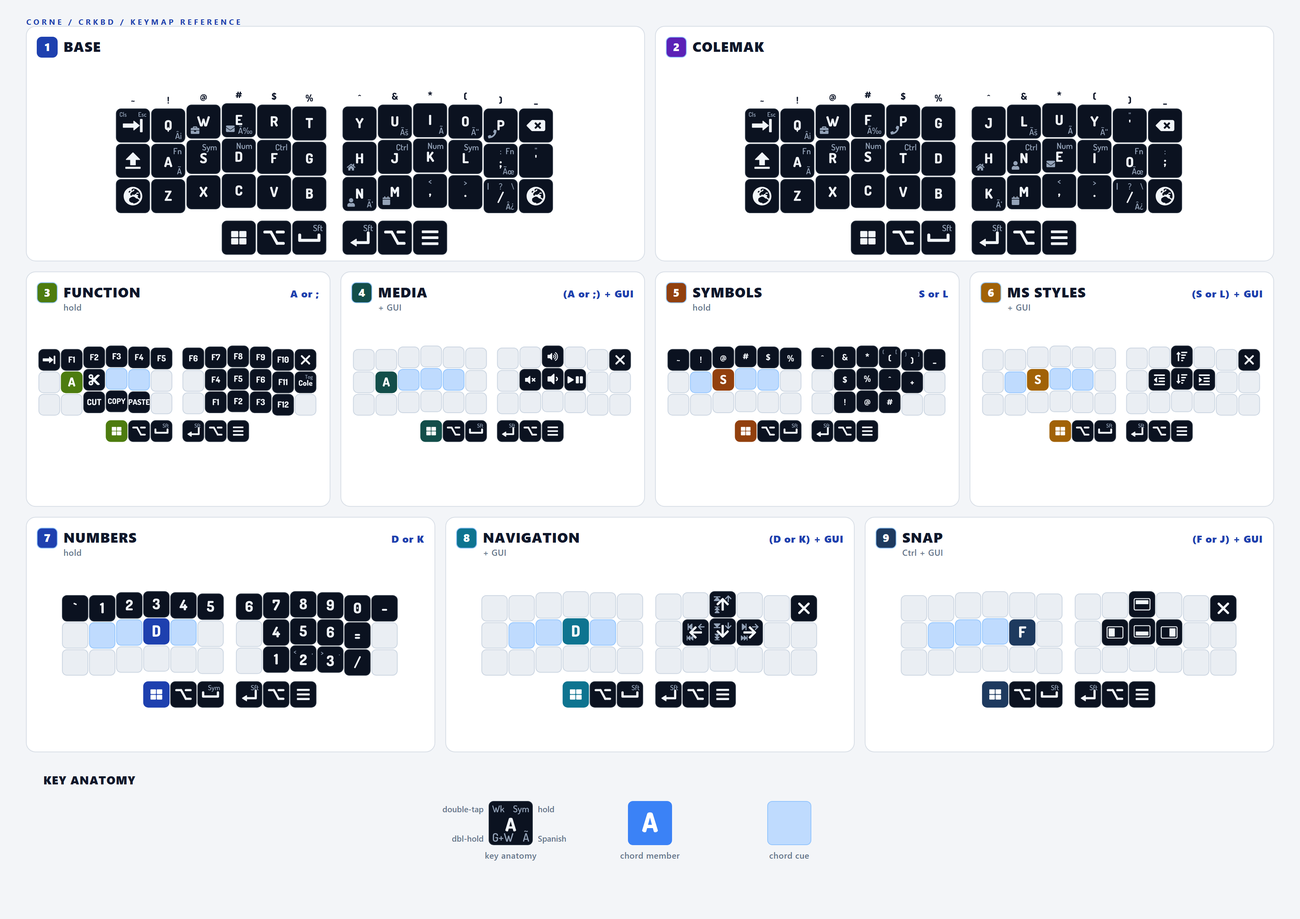
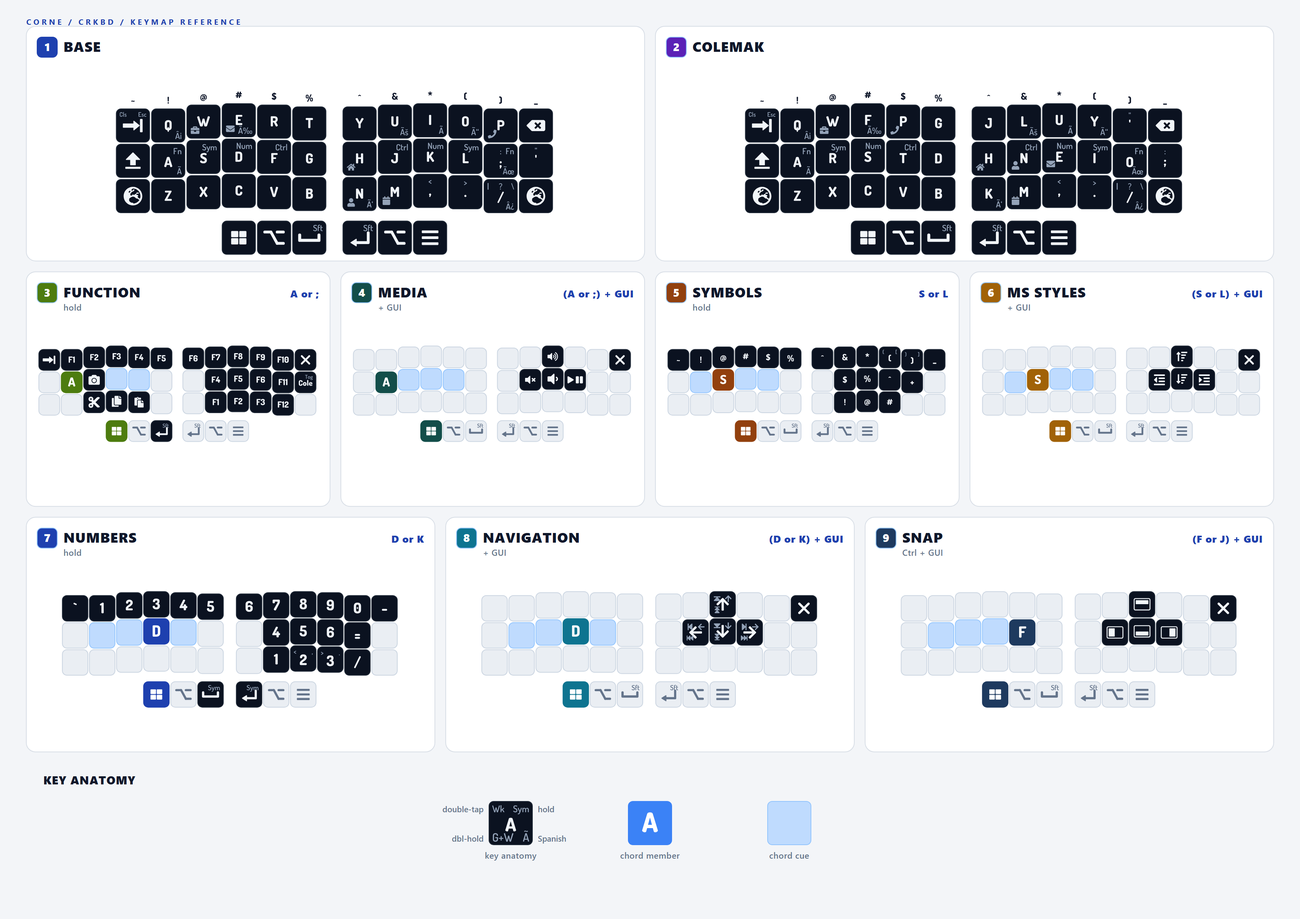
Add left-hand Function Enter and guide updates

diff --git a/tools/printable-guide/render_corne_guide.py b/tools/printable-guide/render_corne_guide.py
@@ -96,7 +96,7 @@ NUMBERS = [
     [K(""), K(""), K(""), K(""), K(""), K(""),
      K(""), K("1"), K("2", ",", "<"), K("3", ".", ">"), K("/"), K("")],
     [K(""), K("_KEY_ALT"), K("_KEY_SPACE","Sym"),
-     K("_KEY_ENTER","Sft"), K("_KEY_ALT"), K("_KEY_MENU")],
+     K("_KEY_ENTER","Sym"), K("_KEY_ALT"), K("_KEY_MENU")],
 ]
 
 # NAV folds the old Extremes + Snap sub-layers into faint annotations on the
@@ -141,7 +141,7 @@ STYLE_ICONS = {"_OUTDENT", "_INDENT", "_REORDER_UP", "_REORDER_DN"}
 KEY_ICONS = {"_KEY_TAB", "_KEY_MEDIA", "_KEY_CALC", "_KEY_GUI",
              "_KEY_SPACE", "_KEY_MENU", "_KEY_BSP", "_KEY_DEL",
              "_KEY_ENTER", "_KEY_ALT", "_KEY_SYM", "_KEY_GLOBE",
-             "_KEY_SNIP"}
+             "_KEY_SNIP", "_KEY_CUT", "_KEY_COPY", "_KEY_PASTE"}
 # Nav 4-tier: word-jump (fast-forward rotated) + extremes (step-forward rotated)
 WORD_ICONS    = {"_WORD_LEFT", "_WORD_RIGHT", "_WORD_UP", "_WORD_DOWN"}
 EXTREME_ICONS = {"_EXTREME_LEFT", "_EXTREME_RIGHT", "_EXTREME_UP", "_EXTREME_DOWN"}
@@ -212,7 +212,10 @@ ICON_TUNING = {
     "_KEY_ALT":     (0.52, 0.36),   # option/alt escalator
     "_KEY_SYM":     (0.56, 0.36),   # </> â€” wide-ish, give it room
     "_KEY_GLOBE":   (0.56, 0.36),   # globe â€” Spanish-compose anchor
-    "_KEY_SNIP":    (0.54, 0.36),   # scissors â€” Windows screen snip
+    "_KEY_SNIP":    (0.54, 0.36),   # camera â€” Windows screen snip
+    "_KEY_CUT":     (0.54, 0.36),   # scissors
+    "_KEY_COPY":    (0.52, 0.36),   # overlapping pages
+    "_KEY_PASTE":   (0.50, 0.36),   # clipboard
 }
 
 # MEDIA â€” guide-aligned 4-key cluster: VOL+ above the home row, with
@@ -241,9 +244,9 @@ FUNCTION = [
      K("F6"), K("F7"), K("F8"), K("F9"), K("F10"), K("_KEY_DEL")],
     [K(""), K(""), K("_KEY_SNIP"), K(""), K(""), K(""),
      K(""), K("F4"), K("F5"), K("F6"), K("F11"), K("Cole","Tog")],
-    [K(""), K(""), K("CUT"), K("COPY"), K("PASTE"), K(""),
+    [K(""), K(""), K("_KEY_CUT"), K("_KEY_COPY"), K("_KEY_PASTE"), K(""),
      K(""), K("F1"), K("F2"), K("F3"), K("F12"), K("")],
-    [K(""), K("_KEY_ALT"), K("_KEY_SPACE","Sft"), K("_KEY_ENTER","Sft"), K("_KEY_ALT"), K("_KEY_MENU")],
+    [K(""), K("_KEY_ALT"), K("_KEY_ENTER","Sft"), K("_KEY_ENTER","Sft"), K("_KEY_ALT"), K("_KEY_MENU")],
 ]
 
 CTRL = [
@@ -623,7 +626,10 @@ def _load_fa_glyphs():
         "_KEY_DEL":     0xf00d,  # times (Ã—) â€” plain dark Del key
         "_KEY_SYM":     0xf121,  # code </>
         "_KEY_GLOBE":   0xf7a2,  # globe-europe â€” Spanish-compose anchor
-        "_KEY_SNIP":    0xf0c4,  # cut / scissors â€” Windows screen snip
+        "_KEY_SNIP":    0xf030,  # camera â€” Windows screen snip
+        "_KEY_CUT":     0xf0c4,  # cut / scissors
+        "_KEY_COPY":    0xf0c5,  # copy
+        "_KEY_PASTE":   0xf0ea,  # paste / clipboard
         "_OUTDENT":     0xf03b,  # outdent â€” promote paragraph (Alt+Shift+Left)
         "_INDENT":      0xf03c,  # indent â€” demote paragraph (Alt+Shift+Right)
         "_REORDER_UP":  0xf161,  # sort-amount-up â€” move paragraph up (Alt+Shift+Up)
@@ -962,7 +968,7 @@ def draw_key(x, y, w, h, tap, hold, double, dark, highlight, anchor_label,
              font_main, font_hold, secondary=False, secondary_label=None,
              embed=False, font_boost=1.0, palette=None,
              embed_palette=None, payload=False, payload_palette=None,
-             spanish="", double_hold="", shift=""):
+             spanish="", double_hold="", shift="", muted=False):
     blank = (tap == "" and not highlight and not secondary and not embed)
     trans = (tap == "â–½")
 
@@ -990,6 +996,11 @@ def draw_key(x, y, w, h, tap, hold, double, dark, highlight, anchor_label,
         stroke = pal["cue_stroke"]
         text = pal["cue_text"]
         hold_color = pal["cue_text"]
+    elif muted:
+        fill = "#eaeef3"
+        stroke = "#cbd5e1"
+        text = MUTED
+        hold_color = MUTED
     elif dark:
         if blank or trans:
             fill = "#eaeef3"
@@ -1178,10 +1189,26 @@ def draw_keyboard(ox, oy, unit, data, dark, access_set,
     font_hold = max(7, int(round(unit * 0.26)))
     parts = []
 
+    def is_repeated_thumb(r, c, tap, hold, double, spanish, double_hold):
+        if layer_name in ("BASE", "COLEMAK") or r != 3:
+            return False
+        if double or spanish or double_hold:
+            return False
+        repeated = {
+            (3, 1): ("_KEY_ALT", ""),
+            (3, 2): ("_KEY_SPACE", "Sft"),
+            (3, 3): ("_KEY_ENTER", "Sft"),
+            (3, 4): ("_KEY_ALT", ""),
+            (3, 5): ("_KEY_MENU", ""),
+        }
+        return repeated.get((r, c)) == (tap, hold)
+
     def render(r, c, x, y, tap, hold, double, spanish="", double_hold=""):
         hl = (r, c) in access_set
         sec = (r, c) in secondary_set and not hl and tap != "_KEY_SNIP"
         emb = (r, c) in embed_set and not hl and not sec
+        muted = (not hl and not sec and not emb and
+                 is_repeated_thumb(r, c, tap, hold, double, spanish, double_hold))
 
         if hl:
             # Highlighted anchor / GUI thumb: paint in the BOARD's own hue with
@@ -1210,6 +1237,7 @@ def draw_keyboard(ox, oy, unit, data, dark, access_set,
                         secondary=sec, embed=emb, font_boost=font_boost,
                         palette=key_pal, embed_palette=emb_pal,
                         spanish=spanish, double_hold=double_hold,
+                        muted=muted,
                         shift=SHIFT_MAP.get(tap, "") if layer_name in ("BASE", "COLEMAK") else "")
 
     def _unpack(cell):

diff --git a/layout.h b/layout.h
@@ -27,6 +27,7 @@
 // special cases for inherited thumb keys.
 #define THUMB_SPACE_SHIFT LSFT_T(KC_SPC)
 #define THUMB_ENTER_SHIFT RSFT_T(KC_ENT)
+#define FUNC_ENTER_SHIFT LSFT_T(KC_ENT)
 #define NUM_SPACE_SYMBOLS LT(SYM, KC_SPC)
 #define SCREEN_SNIP LSG(KC_S)
 #define CLIP_CUT C(KC_X)
@@ -118,8 +119,8 @@
 	XXXXXXX, XXXXXXX, SCREEN_SNIP, XXXXXXX, XXXXXXX, XXXXXXX, XXXXXXX, KC_F4,   KC_F5,   KC_F6,   KC_F11,  TG(CMK), \
 /* Bottom: ---    ---    CUT    COPY   PASTE  ---      ---    F1     F2     F3     F12    --- */\
 	XXXXXXX, XXXXXXX, CLIP_CUT, CLIP_COPY, CLIP_PASTE, XXXXXXX, XXXXXXX, KC_F1,   KC_F2,   KC_F3,   KC_F12,  XXXXXXX, \
-/* Thumbs:                         MED    ALT    SHIFT    ENTER  RALT   MENU */\
-	                            SYS_GUI_MED_SNAP, DELAYED_LALT, THUMB_SPACE_SHIFT, RIGHT_THUMBS
+/* Thumbs:                         MED    ALT    ENT/SFT  ENTER  RALT   MENU */\
+	                            SYS_GUI_MED_SNAP, DELAYED_LALT, FUNC_ENTER_SHIFT, RIGHT_THUMBS
 
 // Function/System + left GUI thumb Media: plain keys only while RAM is tight.
 #define _MEDI \

diff --git a/docs/chieftainDots-roadmap.md b/docs/chieftainDots-roadmap.md
@@ -58,61 +58,46 @@ Start here if this project has been idle for a while. This short table is the
 authoritative resume point; the longer table below is parked detail and history
 from earlier discussions.
 
-Current compiled Snap trial: `28424/28672` bytes, `248` bytes free, OLED on,
-console off. Staged baseline before Snap: `28200/28672` bytes, `472` bytes
-free. Staged changes since the OLED-safe baseline: Navigation is
-movement-only, Styles is tap-only `Alt+Shift+Arrow`, Media is tap-only
-Teams-focused, and OLED labels cover `nav`, `style`, `media`, and `snap`.
-Current working-tree Snap held-entry refinement keeps only the intended
-physical window-placement gesture: Ctrl+GUI hold enters Snap mode, then
-`I/J/K/L` send exact one-shot `Win+Arrow` shortcuts while the Snap layer is
-active. GUI double-tap-hold desktop/workspace mode was removed because those
-shortcuts already have a parked requirement and can later live inside a
-tap/hold/double-tap hierarchy on the Ctrl+GUI chord if needed. Two entry tests failed physically:
-checking whether Ctrl was already registered as a host modifier, and tracking a
-Ctrl-source keycode intent flag in `process_record_user()`. Current hypothesis:
-the GUI tap-dance resolves before the home-row Ctrl mod-tap has become a host
-modifier or a reliable keycode intent signal, so the next narrow trial checks
-the physical Ctrl-source matrix positions directly. Keep this separate from the
-staged baseline until physically tested. Previous held-entry compile succeeded
-at `28350/28672`, leaving `322` bytes free; the Ctrl-intent version compiled at
-`28422/28672`, leaving `250` bytes free; the physical-matrix version compiled
-at `28364/28672`, leaving `308` bytes free. QMK Toolbox then proved Snap entry
-worked because arrows emitted GUI, but Windows did not move the active window
-because the physically held Ctrl contaminated the shortcut as `Ctrl+Win+Arrow`.
-Current compile masks Ctrl only around each one-shot window Snap arrow tap, then
-restores the previous modifier state; it compiled at `28408/28672`, leaving
-`264` bytes free. Physical use is acceptable for now: Snap works well enough to
-keep the current firmware as the working source of truth, but it can still feel
-unpredictable sometimes. Treat future Snap work as a parked refinement, not as a
-blocker for publishing the accepted userspace commits.
+Current accepted baseline: the three-anchor Corne layout is working physically
+and should be treated as the userspace source of truth. The latest documented
+successful compile is `28280/28672`, leaving `392` bytes free. Both halves have
+been flashed with the current layout.
 
-Current Function shortcut slice adds Windows screen snip on `Function + S` with
-native `LSG(KC_S)`. Compile succeeded at `28280/28672`, leaving `392` bytes
-free; QMK reported `28280` bytes both before and after the keymap replacement,
-so the shortcut added no measured firmware bytes. Right-half flash and physical
-Windows snipping-overlay confirmation are the next acceptance checks.
+Kept Function shortcuts: `Function + S` sends Windows screen snip with native
+`LSG(KC_S)`, and QMK reported `28280` bytes both before and after that keymap
+replacement. `Function + X`, `Function + C`, and `Function + V` send
+`Ctrl+X`, `Ctrl+C`, and `Ctrl+V`; physical testing confirmed cut/copy/paste
+work. The short-lived Base/Colemak naked-letter clipboard idea was removed
+before commit because Trello uses plain `c` to archive hovered cards.
 
-Current clipboard shortcut slice adds Function-layer `X`, `C`, and `V` as
-explicit cut/copy/paste shortcuts. `Function + X` sends `Ctrl+X`,
-`Function + C` sends `Ctrl+C`, and `Function + V` sends `Ctrl+V`.
-The short-lived Base/Colemak `V` double-tap-hold paste idea was
-removed before commit because Trello uses plain `c` to archive hovered cards,
-which makes naked-letter clipboard gestures too easy to confuse with host app
-shortcuts. Compile succeeded at `28280/28672`, leaving `392` bytes free.
-Physical testing confirmed the Function-layer clipboard shortcuts work.
+Snap stays in the layout, with caveats. The kept path is the deliberate
+Ctrl+GUI held entry into a Snap surface where `I/J/K/L` send one-shot
+`Win+Arrow` shortcuts. Physical use is acceptable for now, but Snap can still
+feel unpredictable sometimes; treat future Snap work as a parked refinement,
+not a blocker for publishing or using the current layout.
+
+Tiny autocorrect is dismissed for now. A two-entry trial for `comming -> coming`
+and `i -> I` produced only a 27-byte dictionary table, but the full inherited
+autocorrect runtime compiled at `28960/28672`, `288` bytes over. Revisit only
+after byte recovery creates enough room or if autocorrect becomes valuable
+enough to trade against another visible feature.
+
+M22 byte recovery is a future discussion, not pre-approved implementation. Any
+candidate must be negotiated before code changes: decide which areas are in or
+out, try one reversible slice at a time, compile before/after, and preserve the
+current physical behavior unless a separate feature decision says otherwise.
 
 | Focus | Status | Topic | Resume Notes |
 | --- | --- | --- | --- |
 | R0 | Top Priority | Design OLED/screen feedback for feature discovery. | The current OLED feature-discovery build compiles at `28040/28672`, leaving `632` bytes free after repurposing unused modifier font slots for the home-row icons, replacing the slow scaled-label direction with the small text-slot direction, centering `nav` as ` nav ` in the five-cell text slot, and removing the full-screen Bongocat-overwrite label renderer. Put the status/discovery screen on the left OLED because the anchors and chords happen on the left; move Bongocat to the right OLED. Keep the current status screen structure and prioritize three signals: the small `corne` label becomes the active chord name, the RGB arrow shape lights on chord layers, and the middle layer/state tile stays in place while changing image for resting, anchor-held, and chord-active states. Reinterpret the bottom 2x2 modifier stack as home-row status using `Fn`, `@`, `#`, and reused `ctrl`. Current naming direction: `base_layer`, `anchor_layer`, and `chord_layer`. Current OLED requirement: all active chorded layers need the same small logo-text-slot treatment. Required chord labels are `nav`, `style` for Office, `snap`, and `media`; plain anchors do not rename the slot yet. Preserve the generated HTML/SVG asset preview and screen brief as the collaboration surface before changing more firmware OLED code. |
-| R1 | Compiled | Flash and physically test the current three-anchor trial. | Current compiled firmware is `22210/28672` bytes, leaving `6462` bytes free, with console off, OLED off, Auto Caps disabled, and Media removed as a reversible trial. It includes the three-anchor layer model, Navigation hierarchy, Ctrl+GUI Snap window placement, Spanish angle quotes, personal-email mnemonic, Spanish-key double-tap language toggle, delayed/blocking left Alt, the Navigation Ctrl correction, Long Caps, MS Styles tap-hold arrows, the byte-audit removal of the unreachable dedicated Text layer, the Auto Caps byte-audit removal, and the Media removal experiment. Physical feedback so far before Media removal: Space/Enter Shift works well, the three anchors work, Navigation works well, Spanish compose and language shifting work well, English quotes work well, Symbols work, Snap works, delayed Alt works, mnemonics work, Media worked after the layer-order fix, and Long Caps works well. Needs physical check that losing Media is acceptable. Spanish RGB is intentionally off because Spanish compose is output-confirming rather than a command mode. MS Styles still needs more PowerPoint testing before this final combined slice is marked Kept. |
-| R1a | Compiled | Remove Media tap-dance behavior as a RAM experiment. | Requirement: keep the Media layer available but remove its tap/hold/double-tap behaviors so it costs less SRAM while preserving the useful daily actions. Current Media is plain `I = Volume Up`, `J = Teams mic mute (Ctrl+Shift+M)`, `K = Volume Down`, and `L = Play/Pause`; no Media hold or double-tap actions are active. Default OLED-off compile succeeded at `22502/28672`, leaving `6170` bytes free. RAM report shows `tap_dance_actions` at `260` bytes, down from the previous `300` bytes, plus the four Media directional state structs are gone. OLED-on compile with `-e OLED_ENABLE=yes` succeeded at `28070/28672`, leaving `602` bytes free. Its RAM report is led by `oled_buffer = 512`, `tap_dance_actions = 260`, `g_led_config = 210`, and `ws2812_leds = 162`. This is a reversible experiment while OLED/RAM pressure is under investigation; physical flashing is still needed to prove whether the OLED corruption/phantom-key behavior improves. |
-| R1b | Flashed | Revert the newer shared directional tap-dance helper for OLED/RAM diagnosis. | Requirement: test whether the OLED-on phantom modifier behavior came from RAM pressure alone or from the newer stateful directional tap-dance helper introduced during the chord-family cleanup. Diagnostic change restores the older, smaller Navigation `nav_dance_t` helper and MS Styles helper, removes the active Snap directional tap dances, keeps the Snap layer as plain arrows behind the GUI-held entry dance, and keeps Media as plain keys from R1a. OLED remains on in `rules.mk` for this test. Compile succeeded at `28230/28672`, leaving `442` bytes free. RAM report shows `tap_dance_actions = 220`, down from `260` after R1a and down from `300` before Media flattening. Physical result: screens work and QMK key tester no longer shows the phantom Shift/Ctrl/Alt weirdness. Keep this simpler logic as the safer baseline before rebuilding any chord hierarchy. |
-| R2 | Test | Run the remaining physical acceptance checks. | Still needs focused testing: MS Styles in PowerPoint, Function/System layer basics such as F-key shape, Tab behavior, Delete, and Colemak toggle, and a quick tap-hold regression check after removing the clarity-only hold-on-other-key-press callback. Already tested as working: Space/Enter Shift, anchors, Navigation, Spanish compose and language switching, English quotes, Symbols, Snap, delayed Alt, mnemonics, Media after the layer-order fix, and Long Caps. Avoid testing `L` while GUI is intentionally held unless the goal is to lock Windows; `GUI+L` is the host lock-device shortcut. |
+| R1 | Kept | Current three-anchor Corne layout baseline. | Treat the current flashed userspace as accepted: D/K = Numbers, S/L = Symbols, A/; = Function; GUI-refined child layers provide Navigation, Styles, and Media; Ctrl+GUI provides Snap; Spanish, Long Caps, mnemonic text snippets, delayed Alt, Function screen snip, and Function cut/copy/paste are working. Latest documented successful compile is `28280/28672`, leaving `392` bytes free. |
+| R1a | Parked | Media/OLED RAM diagnostic measurements. | Historical measurement only. Flattening Media to plain keys reduced tap-dance RAM and OLED-on compile succeeded at `28070/28672`, leaving `602` bytes free. Keep the measurement as evidence, but do not treat it as the active next task. |
+| R1b | Kept | Simpler directional helper baseline after OLED/RAM diagnosis. | Physical result: screens worked and QMK key tester no longer showed phantom Shift/Ctrl/Alt weirdness. Keep the simpler logic as the accepted baseline; do not resurrect the newer shared directional tap-dance helper that caused OLED-on phantom modifier reports. |
+| R2 | Test | Optional focused acceptance checks. | The layout is usable now. Remaining focused checks are nice-to-have rather than blockers: MS Styles in PowerPoint, Function/System F-key shape, Tab behavior, Delete, Colemak toggle, and a quick tap-hold regression pass. Avoid testing `L` while GUI is intentionally held unless the goal is to lock Windows; `GUI+L` is the host lock-device shortcut. |
 | R3 | Parked | Check hardware first if strange behavior returns. | Recent apparent Space/keyboard failure was likely cable-related. Check USB side, TRRS, and the aviator cable connection before treating firmware as the cause. For the aviator cable, unscrew the join, fully detach it, reattach it, and tighten/reseat it. |
 | R4 | Superseded | Earlier two-family simplification threads are archived, not active. | The active trial is now the three-anchor model: `D/K = Numbers`, `S/L = Symbols`, `A/; = Function`; each anchor has one GUI child. Older `S/L` structure plus `A/;` tools requirements remain useful design history but should not guide the next implementation unless the three-anchor trial is rolled back. |
-| R5 | Deferred | Keep future ideas out of the current trial until it is accepted or rolled back. | Deferred items: double-Space sentence action, low-priority Windows shortcut helpers, broader gesture ladders for MS Styles/Media/Function, active layer-count reduction for byte savings, and printable-guide image renderer tooling. OLED/screen feedback is no longer deferred; it is the next top priority. |
-| R6 | Follow-up | If the current trial is kept, update architecture/principles and consider cleanup. | After physical acceptance, update architecture and principles to describe the three-anchor model, mark superseded roadmap rows clearly, stage only the accepted files, check private text snippets, commit, then discuss whether unused layers or old trial scaffolding can be removed for byte/readability wins. |
+| R5 | Deferred | Keep future ideas out of the accepted baseline unless deliberately reopened. | Deferred items: double-Space next-letter capitalization, paired delimiters, broader gesture ladders for MS Styles/Media/Function, active layer-count reduction for byte savings, and other low-priority Windows shortcut helpers. Printable-guide image tooling is already implemented and should not be listed as deferred. |
+| R6 | Follow-up | Keep docs aligned with the accepted baseline, then discuss cleanup separately. | Current action: keep the resume snapshot, architecture, principles, and printable guide aligned with the working three-anchor layout. After docs are clear, discuss M22 byte recovery as its own negotiated topic before trying any code cleanup. |
 | R18 | Compiled | Simplify the command chord family after the OLED-safe baseline. | Keep the three-anchor, one-GUI-chord model, but reduce the gesture burden so the layout is memorable and SRAM-safe. Staged baseline slice: Navigation becomes movement-only (`tap = arrow`, `hold = held arrow`, `double tap = Ctrl+Arrow semantic jump`, `double-tap-hold = Home/End/Page Up/Page Down`), Styles replaces the narrower MS Styles name with tap-only `Alt+Shift+Arrow`, and Media stays Teams-focused with tap-only `I = Volume Up`, `J = Teams mic mute`, `K = Volume Down`, `L = Play/Pause`. OLED labels now cover active chord layers as `nav`, `style`, `media`, and `snap`. Snap is a separate working-tree slice: Ctrl+GUI hold enters a window placement command surface where `I/J/K/L` send one-shot `Win+Arrow`. GUI double-tap-hold desktop/workspace mode has been removed from the active trial; those shortcuts are parked under R19 and may later become tap/hold/double-tap behaviors inside the Ctrl+GUI chord if they prove useful. There is no extra held GUI state inside Snap mode, no saved Ctrl restore, and no destructive virtual-desktop close. Do not resurrect the newer shared directional tap-dance helper that caused OLED-on phantom modifier reports. Findings so far: host-modifier Ctrl detection failed physically, keycode-intent Ctrl tracking also failed physically, and physical Ctrl-source matrix detection did enter Snap as shown in QMK Toolbox, but Windows did not move the active window until Ctrl was masked from the emitted `Win+Arrow` tap. Baseline compile succeeded at `28200/28672`, leaving `472` bytes free; initial Snap compile succeeded at `28424/28672`, leaving `248` bytes free; safer one-shot held-entry Snap compile succeeded at `28350/28672`, leaving `322` bytes free; tap-entry Snap compile succeeded at `28476/28672`, leaving `196` bytes free and was not preferred because it did not match the desired physical gesture; Ctrl-intent Snap compile succeeded at `28422/28672`, leaving `250` bytes free; physical-matrix Snap compile succeeded at `28364/28672`, leaving `308` bytes free; physical-matrix plus per-arrow Ctrl masking compiled at `28408/28672`, leaving `264` bytes free. `tap_dance_actions` remains `180` bytes. Return point without Snap: `d994e42 Simplify chord layers after OLED-safe baseline`. |
 | R7 | Implemented | Navigation modifier grammar correction. | Navigation should match the current Base modifier story: `F` is Ctrl, while Space/Enter provide Shift. Removed the old embedded `D = Ctrl, F = Shift` Navigation pair because `D/K` now mean Numbers anchors in the three-anchor model. Physical test after compile: `D/K + GUI`, hold `F`, then use `J/L` for Ctrl+Left/Right word jumps; use thumb Shift with Navigation arrows for selection. |
 | R8 | Revised | Add directional English quotes and simplify Spanish language switching. | English quote requirement: left English quote `“` on Shift + Caps, right English quote `”` on Shift + quote. Spanish switching requirement: holding either Spanish lower-corner key enters the Spanish layer; double tapping either Spanish key sends the quick Windows language toggle `Alt+Shift`. There is no double-tap-hold traversal, no left/right Spanish-key pairing logic, and no Spanish-layer Tab action. Trial record: `Win+Space`/GUI-held traversal was too much hidden state; `Spanish + Tab` was visible but made language switching another layer action behind a held layer; the final choice makes the Spanish key itself the language/input key while keeping hold for characters. `Win+Space` remains the Windows selector UI if needed from a regular keyboard; `Alt+Shift` is the quick toggle when enabled in Windows settings. Physical feedback before this simplification: Spanish compose worked, language shifting worked, and English quotes worked. |
@@ -134,6 +119,10 @@ Physical testing confirmed the Function-layer clipboard shortcuts work.
 | R23 | Requirement | Explore paired delimiters with cursor placed inside. | Requirement: provide a one-key way to insert matching delimiter pairs and leave the typing cursor between them. Candidate families include parentheses `()`, square brackets `[]`, curly braces `{}`, angle brackets `<>`, English quotes `""` and `''`, smart English quotes `“”` and `‘’`, and Spanish angle quotes `«»`. This is a typing helper, not a replacement for ordinary single-character Symbols keys: the existing direct symbols should remain available for editing existing text. Implementation thought: send opening delimiter, closing delimiter, then Left; for multi-byte text output such as smart quotes or Spanish quotes, use the existing send-string/text-helper pattern carefully and then send cursor-left once. Guardrails before implementation: avoid password fields and terminal/control contexts where hidden cursor movement is risky, keep the feature on deliberate shortcut positions rather than ordinary quote/bracket taps unless tested, preserve access to literal open/close characters, and measure bytes because a broad delimiter table can grow quickly. |
 | R24 | Parked | Repair the unavailable physical `S` RGB LED on the keyboard named ChieftainDots. | Hardware evidence from 2026-06-19: both Corne halves were flashed with the compiled `Function + S` screen-snip firmware; the shortcut works, but the physical `S` LED does not light on the Function layer. Caps Lock, which commands every available LED red, also does not light `S`. This rules out the screen-snip keycode and command-layer RGB selection as the cause and confirms a physical LED, solder, trace, or left-side RGB-chain fault. Do not spend firmware bytes on a workaround. Diagnose and repair ChieftainDots hardware when convenient, checking the `S` LED and upstream data/power continuity in the affected left-side chain. |
 | R25 | Dismissed | Trial a tiny ChieftainDots-specific autocorrect dictionary. | Inspection: the repo still contains Pascal Getreuer/Filterpaper-style autocorrect support (`features/autocorrect.c`, generated `autocorrect_data*.h`, source dictionaries, and generator script), but the inherited AVR generated dictionary has 603 entries and stores a `dictionary[9396]` table in program memory; the non-AVR generated dictionary has 3075 entries and stores `dictionary[49385]`, far beyond the current Corne headroom. Do not enable those inherited dictionaries. A tiny trial with only `:comming: -> coming` and `:i: -> I` generated a 27-byte dictionary table before runtime code, but compiling the full autocorrect runtime failed size at `28960/28672`, `288` bytes over. This is about 680 bytes larger than the current `28280/28672` baseline, so the feature is dismissed for now and the compile-path files were removed from the working tree. `i'm -> I'm` and double-space cleanup stay out of this slice because the inherited generator cannot match apostrophes in typo patterns and double-space requires separate runtime logic. Revisit only if a future byte cleanup frees enough room or if autocorrect becomes valuable enough to trade against another visible feature. Autocorrect must not run on command layers, shortcuts, Spanish compose, password-like text, or private snippets without a deliberate safety design. |
+| R26 | Kept | Add left-hand Enter for mouse-driven paste workflows. | Requirement: while the right hand stays on the mouse for selecting text, the left hand should be able to paste and confirm without reaching for the right-thumb Enter key. On the Function/System layer, the left Space/Shift thumb position becomes tap Enter / hold Shift. This preserves the existing hold-for-Shift grammar while making `Function + left thumb tap` a deliberate left-hand Enter. Compile succeeded at `28280/28672`, leaving `392` bytes free, so this keymap replacement added no measured firmware bytes. Physical testing confirmed the left-hand Enter workflow works. |
+| R27 | Kept | Improve printable guide icons for Function clipboard and snip actions. | Requirement: make the printable Function layer faster to scan by using distinct Font Awesome icons for common actions. Screen snip uses a camera icon, while cut/copy/paste use scissors, copy pages, and paste clipboard icons. This is diagram/tooling only; firmware behavior does not change and no QMK compile is required. Regenerated `imgs/chieftainDots-corne.png` and visually confirmed the Function layer reads correctly. |
+| R28 | Kept | De-emphasize unchanged thumb keys in the printable guide. | Requirement: repeated thumb behavior should not compete visually with layer-specific behavior. In printable diagrams, thumb keys that behave the same as the normal thumb model use the quiet grey blank-key style; active chord thumbs keep the chord color, and layer-specific thumb changes such as Function `ENT/Sft` stay dark/high-contrast. This is diagram/tooling only; firmware behavior does not change and no QMK compile is required. Regenerated `imgs/chieftainDots-corne.png` and visually confirmed the thumb-key contrast reads correctly. |
+| R29 | Requirement | Explore a mirrored four-anchor home-row order. | Requirement discussion only; do not implement without a separate approval. Candidate order is `A/J = Control`, `S/L = Symbols`, `D/K = Numbers`, and `F/; = Function`, mirrored across both hands so the right hand changes with the left. Candidate GUI children: `Function + GUI = Snap` to make window placement an ordinary anchor+GUI child instead of the current special Ctrl+GUI path, and `Control + GUI = Media` if Media remains. Keep `Function + S` screen snip in the Function layer. Do not remove explicit Function `X/C/V` clipboard shortcuts in the first slice; only consider cleanup after physical testing proves plain Control + `X/C/V` is reliable. Preserve the left-hand Enter requirement for mouse-driven paste workflows: any Control-on-`A/J` redesign must still provide a comfortable left-hand Enter path, and moving Function may change where that path belongs. If this trial is pursued, update OLED/status icon order to match the physical home-row order: Control, Symbols, Numbers, Function. The status screen must teach the new order rather than preserving the old `Fn`, `@`, `#`, `ctrl` stack. Acceptance questions: whether Control on `A/J` reduces accidental `Ctrl+I`, whether Snap becomes more reliable, whether mirrored anchors feel natural, whether the weaker-side finger cost is acceptable, whether left-hand Enter remains comfortable, and whether moving Media to Control+GUI is acceptable. |
 
 ### Parked Detail
 

diff --git a/docs/chieftainDots-printable-layer-guide.md b/docs/chieftainDots-printable-layer-guide.md
@@ -25,7 +25,8 @@ Hold D / K             = Numbers
 Hold F / J             = Ctrl
 Hold Base Space / Enter = Shift
 Hold either lower corner = Spanish
-Right thumbs: Numbers uses Enter/Symbols; Symbols and Function use Enter/Shift;
+Right thumbs: Numbers uses Enter/Symbols; Symbols and Function use Enter/Shift.
+Function left thumb: tap Enter, hold Shift for mouse-driven paste workflows;
 RAlt and Menu stay available.
 ```
 
@@ -280,15 +281,16 @@ Function / System: hold `A` or `;`.
 ```text
 TAB      F1     F2     F3     F4     F5         F6     F7     F8     F9     F10    DEL
 ---      ---    SNIP   ---    ---    ---        ---    F4     F5     F6     F11    COLE
----      ---    CUT    COPY   PASTE  ---        ---    F1     F2     F3     F12    ---
-                         MED    ALT    SHIFT       ENTER  RALT  MENU
+---      ---    cut    copy   paste  ---        ---    F1     F2     F3     F12    ---
+                         MED    ALT    ENT/SFT     ENTER  RALT  MENU
 ```
 
-Press `SNIP` (`Function + S`) to send the Windows screen snip shortcut
+Press the camera icon (`Function + S`) to send the Windows screen snip shortcut
 `Win+Shift+S`. Hold Function first, then tap `S`; holding `S` first enters
-Symbols. Press `CUT` (`Function + X`) to send `Ctrl+X`, `COPY`
-(`Function + C`) to send `Ctrl+C`, `PASTE` (`Function + V`) to send `Ctrl+V`,
-and `COLE` to toggle Colemak.
+Symbols. Press scissors (`Function + X`) to send `Ctrl+X`, copy pages
+(`Function + C`) to send `Ctrl+C`, paste clipboard (`Function + V`) to send
+`Ctrl+V`, tap the left thumb key to send Enter, and `COLE` to toggle Colemak.
+Holding the left thumb key on Function still sends Shift.
 
 Mnemonic shortcuts on Base/Colemak: double tap the letter, then hold the second
 tap.
@@ -341,7 +343,8 @@ Shift+'            ”                ---          ---                 ---
 - Double-tap Caps enters Long Caps, which stays on across words and uses the
   same red RGB as normal Caps.
 - In Numbers, both Space and Enter hold Symbols.
-- In Symbols and Function, Space and Enter hold Shift.
+- In Symbols, Space and Enter hold Shift; in Function, the left thumb taps
+  Enter and holds Shift.
 - Watch normal typing for accidental thumb Shift, especially on Space.
 - Also check intentional Shift use such as Space/Enter + `/` for `?`.
 

diff --git a/keymap-principles.md b/keymap-principles.md
@@ -67,6 +67,11 @@ Frequently used layers should be reachable from thumbs or home-row holds. If
 home-row holds cause accidental activation, tune timing or change placement
 before adding more behavior on top.
 
+Prefer placing the most frequent, timing-sensitive, or error-costly home-row
+anchors on the strongest and most coordinated fingers. When that conflicts with
+mirrored mnemonic order, document which value wins for the trial and test the
+weaker-side cost physically.
+
 ### Keep Command Layers Literal
 
 Command layers should remain predictable. Do not apply broad typing-layer
@@ -219,6 +224,15 @@ RGB should also distinguish present state from future choice:
 - On thumb-refined command layers, the Backspace position should light red when
   it has become Delete. Numbers and Symbols should not show that red Delete cue
   when Delete is not part of their current character-entry concept.
+- Printable guides should de-emphasize repeated thumb behavior. Thumb keys that
+  behave the same as the normal thumb model should use the same quiet grey as
+  blank keys; active chord thumbs should stay in the chord color, and
+  layer-specific thumb changes should stay dark/high-contrast so the changed
+  behavior is the thing the eye learns.
+- Diagram styling must not override behavior truth. Before muting, highlighting,
+  or changing an icon, confirm the key's tap and hold behavior in `layout.h`;
+  the printable guide can simplify visual weight, but it must not invent a
+  second keymap.
 
 Active states override previews. The intended priority is whole-board modes,
 active held layers, then off.

diff --git a/docs/chieftainDots-change-workflow.md b/docs/chieftainDots-change-workflow.md
@@ -73,6 +73,21 @@ Decision locations:
 - Git commits and tags: exact return points for accepted slices and preserved
   experiments.
 
+## Printable Guide Renderer Gate
+
+Use this whenever `tools/printable-guide/render_corne_guide.py`,
+`docs/chieftainDots-printable-layer-guide.md`, or the rendered PNG changes.
+
+1. Compare every touched renderer layer table against `layout.h`.
+2. For thumb keys, verify both tap and hold behavior against the layer macro.
+3. Classify each thumb as repeated behavior, active chord entry, or
+   layer-specific change before applying grey, chord-color, or dark styling.
+4. Regenerate `imgs/chieftainDots-corne.png`.
+5. Visually inspect the touched layer cards, including nearby sibling layers
+   that share the same thumb positions.
+6. Record diagram-only decisions in the roadmap when they change the visual
+   grammar or future verification expectations.
+
 ## Required Loop
 
 1. Check the current repository state before changing files: branch, short
